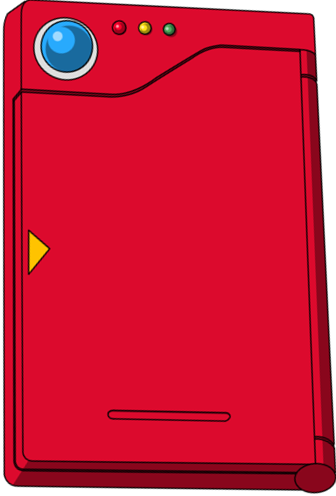
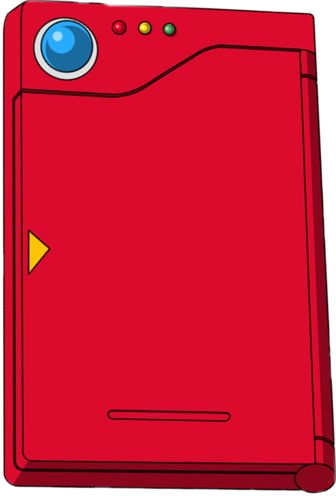
adding background to body and removing white background from pokedex image

diff --git a/app/scss/pages/_home.scss b/app/scss/pages/_home.scss
@@ -96,19 +96,19 @@
 }
 
 .pokedex {
-  height: 20rem;
+  height: 17rem;
   width: 100%;
   display: flex;
   &__device {
     width: 30%;
     &--openned {
       height: 100%;
-      background-size: 100% 87%;
+      background-size: 100% 100%;
       background-repeat: no-repeat;
       background-image: url(assets/pokedex_openned_aligned.png);
     }
     &--closed {
-      height: 80%;
+      height: 100%;
       background-size: 58% 100%;
       background-repeat: no-repeat;
       background-image: url(assets/pokedex_closed_aligned.png);

diff --git a/app/scss/base/_base.scss b/app/scss/base/_base.scss
@@ -1,4 +1,6 @@
 body {
   font-size: 20px;
   padding: 1rem;
+  background-image: url(assets/pokemons-background.png);
+  background-size: 100%;
 }

diff --git a/app/scss/components/_carousel.scss b/app/scss/components/_carousel.scss
@@ -1,6 +1,6 @@
 .carousel {
   width: 100%;
-  height: 80%;
+  height: 100%;
   display: flex;
   /* padding-left: 5%;
   padding-right: 5%; */
